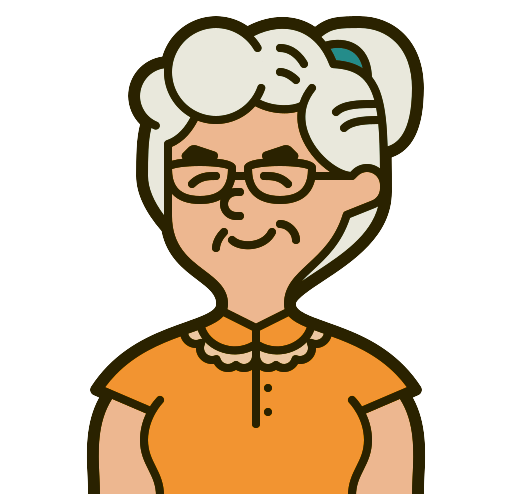
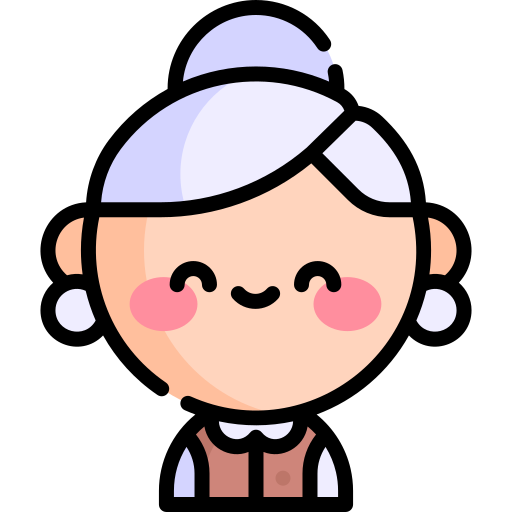
Second commit - added people random generation logic and disappearance with food

diff --git a/main.py b/main.py
@@ -1,4 +1,5 @@
 import pygame
+import random
 from sys import exit
 
 pygame.init()
@@ -16,13 +17,13 @@ surface.fill('#87CEEB')
 cloudSurface = pygame.image.load('D:/Term - 4/Pygame/Clouds/cloud.png').convert_alpha()
 
 #Resized Cloud - to improve appearance in the background 
-cloudSurface = pygame.transform. smoothscale(cloudSurface,(100,90))
+cloudSurface = pygame.transform. smoothscale(cloudSurface,(170,150))
 
 #Sun in the Background - Layer 1
 sunSurface = pygame.image.load('D:/Term - 4/Pygame/Sun/sun_copy.png').convert_alpha()
 
 #Resized Sun - to improve appearance in the background
-sunSurface = pygame.transform.smoothscale(sunSurface,(110,110))
+sunSurface = pygame.transform.smoothscale(sunSurface,(200,200))
 
 #Furniture in the Background - Layer 3
 tableSurface = pygame.image.load('D:/Term - 4/Pygame/furniture/kitchen.png').convert_alpha()
@@ -59,9 +60,18 @@ toaster = pygame.transform.smoothscale(toaster,(100,95))
 
 #People
 man1 = pygame.image.load('D:/Term - 4/Pygame/People/grandfather_copy.png').convert_alpha()
-
 man1 = pygame.transform.smoothscale(man1,(270,270))
+fem1 = pygame.image.load('D:/Term - 4/Pygame/People/grandmother.png').convert_alpha()
+fem1 = pygame.transform.smoothscale(fem1,(270,270))
 
+
+#Food
+bread = pygame.image.load('D:/Term - 4/Pygame/food/toast.png').convert_alpha()
+coffee = pygame.image.load('D:/Term - 4/Pygame/food/coffee-cup.png').convert_alpha()
+
+#Resize food
+bread = pygame.transform.smoothscale(bread,(150,150))
+coffee = pygame.transform.smoothscale(coffee,(120,130))
 
 #Text - just for testing 
 text_surface = text.render('Good Day!',False,'Black')
@@ -75,10 +85,10 @@ table4_rect = tableSurface4.get_rect(midleft = (880,685))
 table5_rect = tableSurface5.get_rect(midleft = (1085,685))
 
 #Rectangle for Sun
-sun_rect = sunSurface.get_rect(center = (400,80))
+sun_rect = sunSurface.get_rect(center = (400,120))
 
 #Rectangle for Cloud
-cloud_rect = cloudSurface.get_rect(center = (600,110))
+cloud_rect = cloudSurface.get_rect(center = (600,130))
 
 #Rectangle for Furniture on top
 shelf_rect = shelf.get_rect(midbottom = (1190,600))
@@ -91,16 +101,41 @@ toaster_rect = toaster.get_rect(midbottom = (550,602))
 
 #Rectange for people
 man_rect = man1.get_rect(midbottom = (850,603))
+fem_rect = fem1.get_rect(midbottom = (850,603))
+
+#rectangole for food
+bread_rect = bread.get_rect(midbottom = (850,600))
+coffee_rect = coffee.get_rect(midbottom = (850,600))
+
+#Detect Collision - flag bit
+collision_detected = False
+bread_flag = False
+coffee_flag = False
+
+#People flag bits
+person_appeared = False
+
+# Timer variables
+BREAD_DISPLAY_TIME = 2000  # milliseconds
+COFFEE_DISPLAY_TIME = 2000  # milliseconds
+person_display_time = 5000
+person_timer = 0
+bread_timer = 0
+coffee_timer = 0
 
 #Frames per second variable
 clock = pygame.time.Clock()
 
+def randomly_select_person():
+    return random.choice(['man', 'woman'])
+
+current_person = randomly_select_person()
+
 #Main loop - to keep the game running
 while True:
+    current_time = pygame.time.get_ticks()
 
-    #Event checking & ahndling
     for event in pygame.event.get():
-
         if event.type == pygame.QUIT:
             pygame.quit()
             exit()
@@ -109,31 +144,69 @@ while True:
             screen = pygame.display.set_mode(displaySize, pygame.RESIZABLE)
             surface = pygame.Surface(displaySize)
             surface.fill('#87CEEB')
-            text_surface = text.render('Good Day!',False,'Black')
+            text_surface = text.render('Good Day!', False, 'Black')
+        
+        if event.type == pygame.MOUSEBUTTONDOWN:
+            if toaster_rect.collidepoint((event.pos)) and not collision_detected:
+                bread_flag, coffee_flag = True, False
+                collision_detected = True
+                bread_timer = current_time + BREAD_DISPLAY_TIME
+            elif coffeeM_rect.collidepoint((event.pos)) and not collision_detected:
+                coffee_flag, bread_flag = True, False
+                collision_detected = True
+                coffee_timer = current_time + COFFEE_DISPLAY_TIME
+        elif event.type == pygame.MOUSEBUTTONUP:
+            if event.button == 1:  # Reset collision detection flag on mouse button release
+                collision_detected = False
 
-    screen.blit(surface,(0,0))
+    screen.blit(surface, (0, 0))
+    screen.blit(sunSurface, sun_rect)
+    screen.blit(cloudSurface, cloud_rect)
 
-    screen.blit(sunSurface,sun_rect)
+    # Check if it's time for a new person to appear
+    if current_time >= person_timer and not person_appeared:
+        current_person = randomly_select_person()
+        person_appeared = True
+        person_timer = current_time + person_display_time
 
-    screen.blit(cloudSurface,cloud_rect)
+    screen.blit(tableSurface, table1_rect)
+    screen.blit(tableSurface2, table2_rect)
+    screen.blit(tableSurface3, table3_rect)
+    screen.blit(tableSurface4, table4_rect)
+    screen.blit(tableSurface5, table5_rect)
 
-    screen.blit(man1,man_rect)
+    # Display the current person if appeared
+    if person_appeared:
+        if current_person == 'man':
+            screen.blit(man1, man_rect)
+        elif current_person == 'woman':
+            screen.blit(fem1, fem_rect)
 
-    screen.blit(tableSurface,table1_rect)
-    screen.blit(tableSurface2,table2_rect)
-    screen.blit(tableSurface3,table3_rect)
-    screen.blit(tableSurface4,table4_rect)
-    screen.blit(tableSurface5,table5_rect)
+    # Handle bread display and person disappearance
+    if bread_flag:
+        screen.blit(bread, bread_rect)
+        if current_time > bread_timer:
+            person_appeared = False
+            bread_flag = False
 
-    screen.blit(shelf,shelf_rect)
-    screen.blit(coffeemaker,coffeeM_rect)
-    screen.blit(toaster,toaster_rect)
+    # Handle coffee display and person disappearance
+    if coffee_flag:
+        screen.blit(coffee, coffee_rect)
+        if current_time > coffee_timer:
+            person_appeared = False
+            coffee_flag = False
+
+    screen.blit(shelf, shelf_rect)
+    screen.blit(coffeemaker, coffeeM_rect)
+    screen.blit(toaster, toaster_rect)
 
     sun_rect.centerx -= 1
-    if sun_rect.right <= 0: sun_rect.centerx = 1500
+    if sun_rect.right <= 0:
+        sun_rect.centerx = 1500
 
     cloud_rect.centerx -= 2
-    if cloud_rect.right <= 0: cloud_rect.x = 1400
+    if cloud_rect.right <= 0:
+        cloud_rect.x = 1400
 
-    pygame.display.update() # Keep updating the screen
+    pygame.display.update()
     clock.tick(60)
